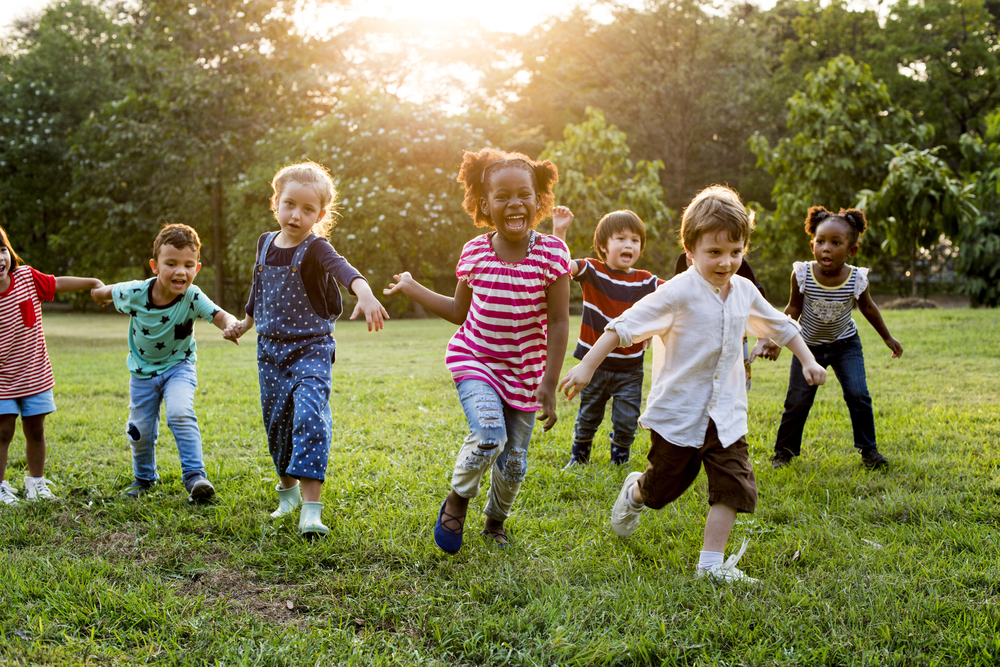
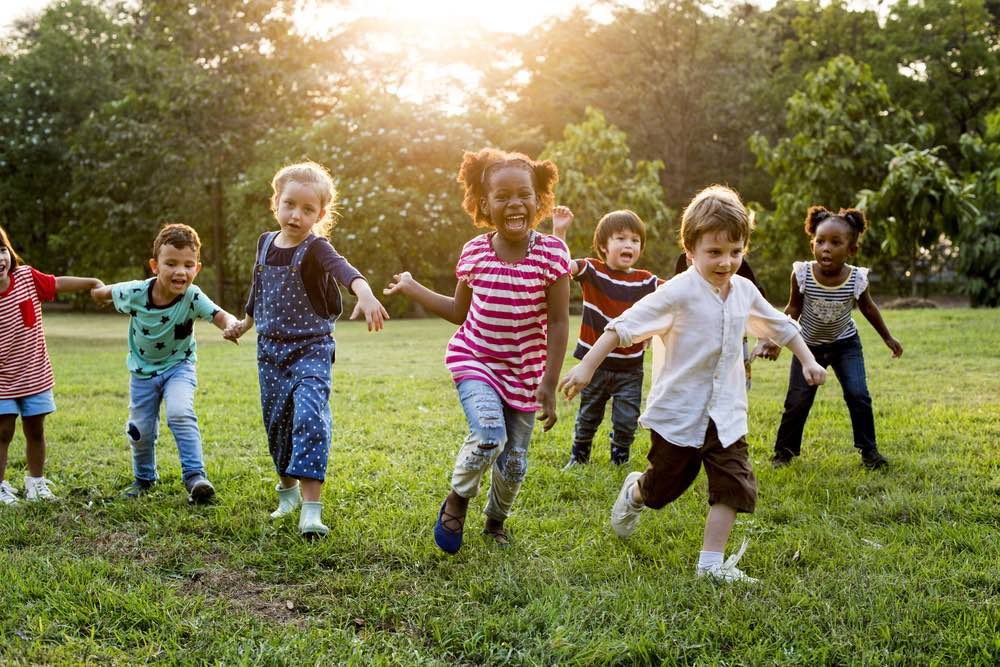
smaller pics

diff --git a/about.html b/about.html
@@ -39,7 +39,7 @@
       	</div>
     	</div>
     	<section class="feature banner top parallax-window" data-parallax="scroll"
-      data-image-src="img/about.jpg">
+      data-image-src="img/about-sm.jpg">
       	<div class="container">
 					<div class="row row align-items-center">
 						<div class="col-md">
@@ -232,7 +232,7 @@
               <div class="content-module content-img-left">
                 <div class="row">
                   <div class="col-md-5">
-                    <img src="img/terry.png">
+                    <img src="img/terry.jpg">
                   </div>
                   <div class="col-md-7">
                     <h2>Terry Bone</h2>

diff --git a/index.html b/index.html
@@ -84,7 +84,7 @@
                     maximize retention, accelerate progress, and break ceilings.</p>
                   </div>
                   <div class="col-md-5">
-                    <img src="img/active_learning.jpeg">
+                    <img src="img/active_learning.jpg">
                   </div>
                 </div>
               </div>

diff --git a/contact.html b/contact.html
@@ -39,7 +39,7 @@
       	</div>
     	</div>
     	<section class="feature banner top parallax-window" data-parallax="scroll"
-      data-image-src="img/church.png">
+      data-image-src="img/church.jpg">
       	<div class="container">
 					<div class="row row align-items-center">
 						<div class="col-md">

diff --git a/admissions.html b/admissions.html
@@ -39,7 +39,7 @@
       	</div>
     	</div>
     	<section class="feature banner top parallax-window" data-parallax="scroll"
-      data-image-src="img/hero.png">
+      data-image-src="img/hero.jpg">
       	<div class="container">
 					<div class="row row align-items-center">
 						<div class="col-md">
